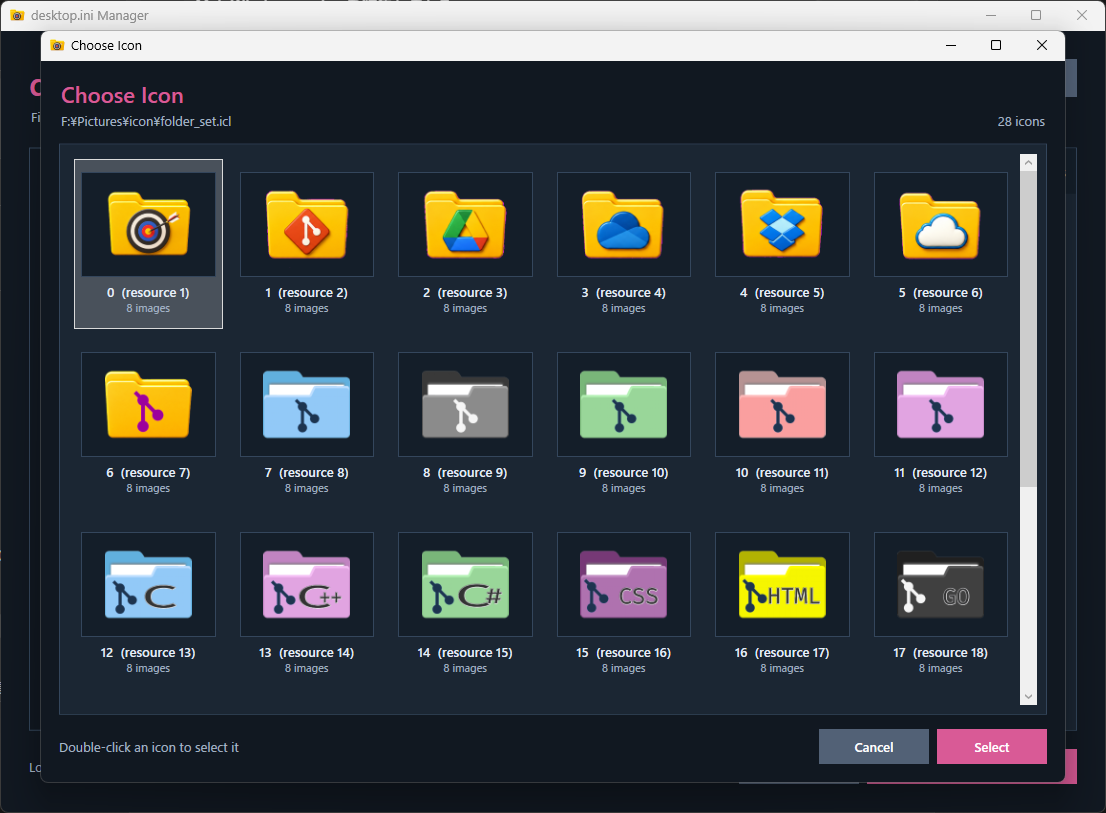
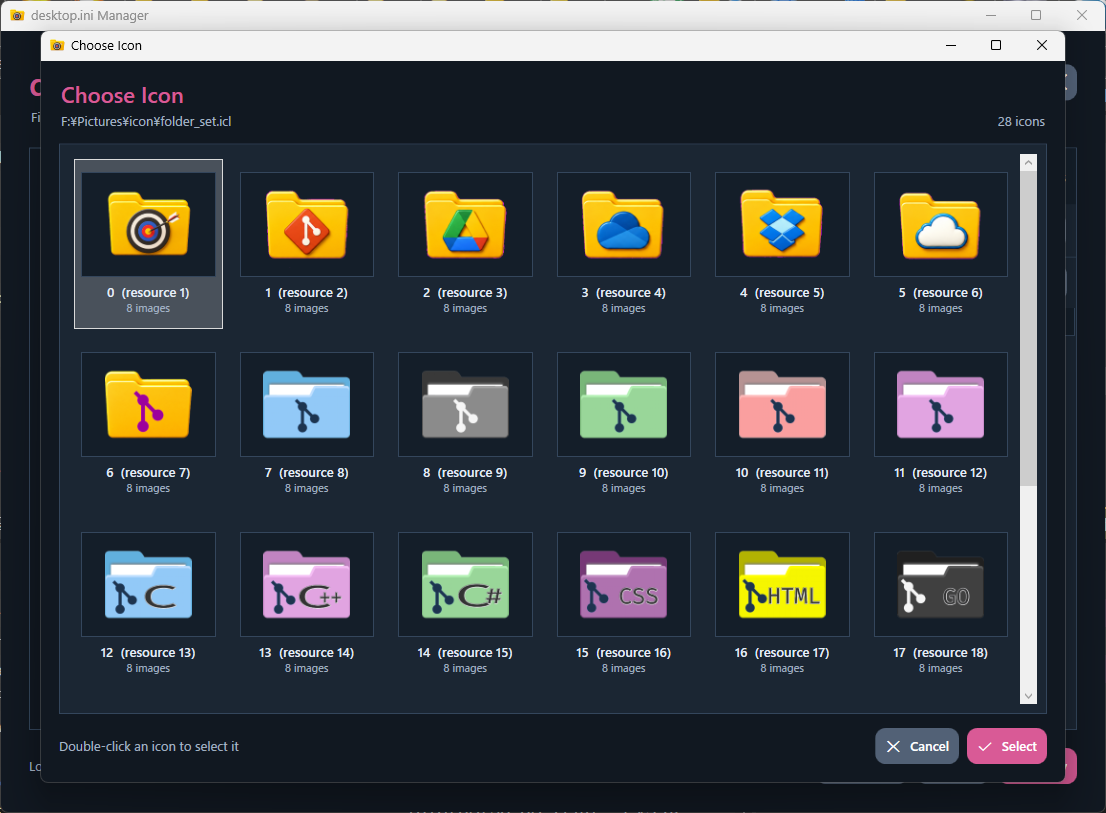
Update README and screenshots for v1.5.0
- Update README for DesktopIniManager v1.5.0
- Add documentation for Physical, Solution, and Search tabs
- Document fast NTFS/MFT search and Scoped Code Search
- Update folder icon management and file view documentation
- Replace screenshots with the latest dark and light theme UI

diff --git a/README.md b/README.md
@@ -1,140 +1,254 @@
 # DesktopIniManager
 
-DesktopIniManager is a Windows developer tool for understanding real project layouts and organizing folders with custom icons through `desktop.ini`.
+DesktopIniManager is a Windows developer tool for exploring development
+folders, understanding project structure, searching source code, and
+applying custom folder icons through `desktop.ini`.
 
-It discovers Git repositories, projects, source-language composition, and Visual Studio solution relationships without changing the project files themselves. The same search engine can also classify ordinary media and document folders by extension.
+Version **1.5.0** expands the original folder-icon manager into a
+project-oriented workspace. Physical folders, Visual Studio solution
+structure, search results, file lists, scoped Grep, and icon resources
+can all be handled from one application.
 
-![Repository tree in dark mode](docs/images/repository-tree-dark.png)
+![Physical tree in dark mode](docs/images/physical-tree-dark.png)
 
 ## Download
 
-[![Download DesktopIniManager](docs/images/download.png)](https://github.com/K-Tamashiro/DesktopIniManager/releases/latest/download/DesktopIniManager-v1.5.0-win-x64.zip)
+[![Download
+DesktopIniManager](docs/images/download.png)](https://github.com/K-Tamashiro/DesktopIniManager/releases/latest/download/DesktopIniManager-v1.5.0-win-x64.zip)
 
-Download `DesktopIniManager-v1.5.0-win-x64.zip`, extract it to a writable folder, and run `DesktopIniManager.exe`.
+Download `DesktopIniManager-v1.5.0-win-x64.zip`, extract it to a
+writable folder, and run `DesktopIniManager.exe`.
 
 ### Requirements
 
-- Windows 10 or Windows 11, x64
-- .NET Framework 4.8
+-   Windows 10 or Windows 11, x64
+-   .NET Framework 4.8
+-   Administrator permission when `Use fast NTFS search` is enabled
 
-## Why DesktopIniManager?
+## What DesktopIniManager does
 
-Large repositories often contain several solutions, many service projects, shared output folders, and physical layouts that differ from Visual Studio's logical Solution Explorer. DesktopIniManager provides a quick view of both structures and lets developers make important folders recognizable in Explorer.
+Development work often requires several separate tools: Explorer for the
+physical layout, Visual Studio for the logical solution structure, a
+file-search tool, a Grep tool, and another utility for folder
+customization.
 
-## Highlights
+DesktopIniManager brings those views together around the development
+folder itself.
 
-- Dedicated `GIT Search` for finding repositories and projects
-- Optional NTFS MFT index search that can inventory very large volumes in milliseconds
-- Path-normalized physical folder tree that excludes folders with the Windows Hidden attribute
-- File list for the selected folder, with external-editor launch on double-click
-- Visual Studio `.sln` and `.csproj` parsing for a logical, folder-only Solution tree
-- Refactored solution, filesystem, icon, and search pipelines for lower allocation and faster large-tree processing
-- Detection of projects inside monorepos, even when child projects do not contain their own `.git`
-- Source-language and technology analysis with counts and percentages
-- Support for C#, C/C++, JavaScript, TypeScript, PHP, Java, Delphi, VB6, VB.NET, HTML, CSS, SQL, and many more
-- Multi-extension folder search such as `mp3 wav`
-- Batch folder-icon application and removal
-- ICO, ICL, DLL, and EXE icon-resource browser
-- Bundled folder icon set
-- Optional `desktop.ini` entry in `.gitignore`
-- Independent Physical, Solution, and Search tabs that preserve all three result sets
-- Light and dark themes
-- Context-menu actions for narrowing the search location, opening Explorer, or grepping one folder
-- Hide and unhide selected tree folders
-- Visible-row-only batch selection for safe tree operations
-- Bundled `mftree` command-line tool for fast trees and development-structure analysis
-- Non-modal Scoped Code Search for grepping only selected project folders
-- Language profiles, regular expressions, configurable extensions, and external-editor navigation
+The **Physical**, **Solution**, and **Search** tabs are independent.
+Running a search no longer destroys the folder or solution tree already
+acquired, so you can move between the actual disk structure, the Visual
+Studio-oriented structure, and temporary search results without
+rebuilding your working context.
 
-## Scoped Code Search
+## Version 1.5.0 highlights
 
-Select one or more project folders in the Physical or Solution tree and choose `Grep selected folders`. The non-modal search window limits results to those projects, removes overlapping parent/child scopes, and opens matches in a configurable external editor at the matching line and column.
+-   Physical, Solution, and Search views retained independently as tabs
+-   Visual Studio `.sln` / project analysis for a logical Solution tree
+-   NTFS MFT-based high-speed indexing through `FastVolumeIndex.Core`
+-   Refactored MFT and path-index pipelines to reduce repeated
+    filesystem traversal
+-   Hidden Windows folders excluded from the physical tree
+-   Project and source-language analysis
+-   Folder-name and extension-based search
+-   File list synchronized with the selected folder
+-   Small/large icon file views
+-   Non-modal **Scoped Code Search**
+-   Grep scopes selectable directly from the project/folder tree
+-   Regular expression, Match case, and Whole word Grep options
+-   Language profiles and editable extension sets
+-   External-editor navigation to matching line and column
+-   ICO / ICL / DLL / EXE icon-resource browser
+-   Batch `desktop.ini` apply/remove
+-   Optional `desktop.ini` registration in `.gitignore`
+-   Light and dark themes
+-   Bundled `mftree.exe` CLI
 
-Built-in profiles cover C#, VB.NET, VB6, C/C++, JavaScript, TypeScript, PHP, Java, Delphi, and SQL. The `Free / Plain text` profile stores a separate editable extension list for logs, mail data, configuration files, and other text formats. String, regular-expression, case-sensitive, and whole-word searches are supported.
+## Three retained project views
+
+### Physical
+
+The Physical tab shows the actual folder hierarchy on disk. It is the
+base view for understanding where projects, assets, output folders,
+documents, and other resources physically exist.
+
+Selecting a folder displays its files in the right pane.
+
+![Physical tree](docs/images/physical-tree-dark.png)
+
+### Solution
+
+The Solution tab reconstructs the logical structure from Visual Studio
+solution and project information. This makes it possible to compare the
+structure developers see in Visual Studio with the real physical folder
+layout.
+
+![Solution tree](docs/images/solution-tree-dark.png)
+
+### Search
+
+Search results have their own tab instead of replacing the current
+folder tree. Searches can therefore be repeated while the Physical and
+Solution views remain available.
+
+Multiple keywords/extensions can be used to narrow the result set.
+
+![Search results](docs/images/search-tree-dark.png)
 
 ## Fast NTFS search
 
-`Use fast NTFS search` reads the local NTFS Master File Table instead of recursively opening every directory. It is intended for large development drives and very large solutions. Direct volume access requires administrator permission, so DesktopIniManager explains the request and can restart the search with elevation.
+`Use fast NTFS search` reads the local NTFS Master File Table rather
+than recursively opening every directory.
 
-Fast search supports local NTFS volumes. Network shares, Samba paths, and non-NTFS volumes automatically use the standard folder search.
+DesktopIniManager uses `FastVolumeIndex.Core` to build an in-memory
+representation of the volume and then constructs the required
+folder/path indexes from that data. Version 1.5.0 further reduces
+unnecessary full-volume path processing and repeated traversal of the
+same search scope.
+
+This is particularly useful when the search root contains large
+repositories or many development projects.
+
+Direct NTFS volume access requires administrator permission. Standard
+filesystem traversal remains available when fast NTFS search cannot be
+used.
+
+## Project analysis
+
+`GIT` acquisition identifies development repositories and analyzes the
+folders below them.
+
+DesktopIniManager recognizes common development structures including:
+
+-   `.sln`, `.slnx`
+-   `.csproj`, `.vbproj`, `.fsproj`, `.vcxproj`
+-   `.vbp`, `.dproj`, `.dpr`
+-   `package.json`, `composer.json`, `pyproject.toml`
+-   `Cargo.toml`, `go.mod`, `pom.xml`
+-   Gradle, CMake, Make, and related project markers
+
+Generated and dependency folders such as `.git`, `.vs`, `bin`, `obj`,
+`node_modules`, `vendor`, `dist`, and `target` are excluded where
+appropriate.
+
+## Scoped Code Search
+
+DesktopIniManager includes a non-modal Grep window designed specifically
+for project work.
+
+Instead of searching an entire development drive and then filtering a
+large number of unrelated hits, select only the project folders you need
+and run Grep against those scopes.
+
+![Scoped Code Search](docs/images/scoped-code-search.png)
+
+Features include:
+
+-   Multiple selected project/folder scopes
+-   Parent/child scope de-duplication
+-   C# / WPF and other language profiles
+-   Editable included extensions
+-   Regular expressions
+-   Match case
+-   Whole word
+-   File, line, column, and matched-text display
+-   Configurable external editor
+-   Line/column arguments such as MIFES `/+{line}@{column} "{file}"`
+
+This allows DesktopIniManager to act as a project-aware front end to
+source-code search rather than a general whole-PC Grep utility.
+
+## File view
+
+Selecting a folder in the tree displays the files physically contained
+in that folder.
+
+The file pane supports list and icon layouts, and matching files can be
+visually identified when working from Search results. Files can be
+opened directly with their associated application.
+
+![Folder and file view](docs/images/folder-icon-apply-dark.png)
+
+## Folder icon management
+
+The original purpose of DesktopIniManager remains fully integrated.
+
+Choose an ICO, ICL, DLL, or EXE resource and apply the selected icon to
+one or more folders. The bundled `Assets/folder_set.icl` provides a
+ready-to-use development-oriented folder set.
+
+![Icon resource browser](docs/images/icon-picker-dark.png)
+
+For each selected folder, DesktopIniManager:
+
+1.  Writes `[.ShellClassInfo]` and `IconResource` to `desktop.ini`.
+2.  Marks `desktop.ini` as Hidden and System.
+3.  Applies the folder attributes required by Explorer customization.
+4.  Refreshes Explorer after the batch operation.
+5.  Optionally adds `desktop.ini` to `.gitignore`.
+
+`Remove` deletes the customization and restores the folder to its normal
+icon state.
+
+## Light and dark themes
+
+The complete workspace can be switched between dark and light themes.
+
+![Light theme](docs/images/physical-tree-light.png)
 
 ## mftree command-line tool
 
-The release also includes `mftree.exe`, a command-line interface powered by `FastVolumeIndex.Core`. Run it from an administrator terminal:
+Version 1.5.0 also includes `mftree.exe`, a command-line tool powered by
+`FastVolumeIndex.Core`.
 
-```powershell
+Run it from an administrator terminal:
+
+``` powershell
 mftree
 mftree /f
 mftree "E:\Develop"
 mftree "E:\Develop" /f
 ```
 
-The first form prints folders only, like `tree`. The `/f` form includes files, like `tree /f`.
+The default form prints folders. `/f` includes files, providing an
+MFT-backed alternative for quickly inspecting large directory trees.
 
-Add the extracted release directory to `PATH` to invoke `mftree` from any location.
+Add the extracted release directory to `PATH` if you want to invoke
+`mftree` from any location.
 
-## Application overview
+## Typical workflow
 
-![DesktopIniManager overview](docs/images/app-overview-dark.png)
-
-1. Choose a search location.
-2. Use `GIT Search`, or enter one or more custom keywords and select `Search`.
-3. Switch instantly between the retained Physical, Solution, and Search tabs.
-4. Expand only the folders you want to work with and select the visible rows.
-5. Choose an icon and apply it to the selected folders.
-
-Collapsed child nodes are excluded from Apply and Remove operations. Turning `Select all` off clears every node, including collapsed children; turning it on selects visible nodes only.
-
-## Repository and language analysis
-
-Developer mode recognizes common project definitions such as:
-
-- `.sln`, `.slnx`, `.csproj`, `.vbproj`, `.fsproj`, `.vcxproj`
-- `.vbp`, `.dproj`, `.dpr`
-- `package.json`, `composer.json`, `pyproject.toml`
-- `Cargo.toml`, `go.mod`, `pom.xml`
-- Gradle, CMake, Make, and Xcode projects
-
-Generated and dependency folders such as `.git`, `.vs`, `bin`, `obj`, `node_modules`, `vendor`, `dist`, and `target` are excluded from language statistics.
-
-## Icon browser
-
-DesktopIniManager includes `Assets/folder_set.icl` and uses it as the initial icon library. A different ICO, ICL, DLL, or EXE can be selected at any time, and the last path is restored on the next launch.
-
-![Icon resource browser](docs/images/icon-picker-dark.png)
-
-## How folder icons are applied
-
-For each selected folder, DesktopIniManager:
-
-1. Writes a `[.ShellClassInfo]` section with the selected `IconResource`.
-2. Marks `desktop.ini` as Hidden and System.
-3. Applies the System and Read-only attributes required for folder customization.
-4. Notifies Windows Explorer of the icon change.
-
-The selected icon library stays at its current path. Moving or deleting it can make assigned folder icons unavailable.
-
-`Remove settings` deletes `desktop.ini`, clears the customization attributes, and refreshes Explorer.
+1.  Choose the development root.
+2.  Enable fast NTFS search when working on a local NTFS volume.
+3.  Run `GIT` to acquire the Physical and Solution structures.
+4.  Switch between Physical and Solution without rebuilding either tree.
+5.  Use Search for temporary folder/file filtering.
+6.  Select only the required projects and run Scoped Code Search.
+7.  Inspect files in the right pane or open a match in the configured
+    editor.
+8.  Apply project-specific folder icons where visual identification in
+    Explorer is useful.
 
 ## Build from source
 
 Requirements:
 
-- Visual Studio 2022 or newer
-- .NET desktop development workload
-- .NET Framework 4.8 targeting pack
+-   Visual Studio 2022 or newer
+-   .NET desktop development workload
+-   .NET Framework 4.8 targeting pack
 
-Build with Visual Studio's MSBuild:
+Build with Visual Studio MSBuild:
 
-```powershell
+``` powershell
 MSBuild.exe DesktopIniManager.sln /t:Rebuild /p:Configuration=Release
 ```
 
-The solution contains DesktopIniManager, the reusable `FastVolumeIndex.Core` API, and the `mftree` CLI. All projects target .NET Framework 4.8 and x64 Windows.
+The solution contains the DesktopIniManager application, reusable
+`FastVolumeIndex.Core`, and the `mftree` command-line tool.
 
 ## Release package contents
 
-```text
+``` text
 DesktopIniManager.exe
 FastVolumeIndex.Core.dll
 mftree.exe
@@ -143,3 +257,7 @@ Assets/
 README.md
 RELEASE_NOTES_v1.5.0.md
 ```
+
+## Version
+
+Current release: **DesktopIniManager 1.5.0**
